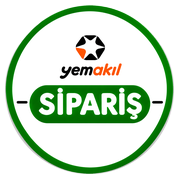
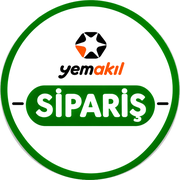
V150: Sipariş logosu kenarları — daire dışı saydam, başlıkta yuvarlak; köşelerdeki beyaz kalmadı
Claude-Session: https://claude.ai/code/session_011RPLY5VVGrZzGRjTnmy5dh

diff --git a/index.html b/index.html
@@ -103,7 +103,7 @@ h1{position:sticky;top:0;z-index:15;margin:-16px -14px 12px;padding:calc(14px + 
 main>.s:first-of-type{display:none}
 #sheet:not([hidden])~#tabs{display:none}
 </style></head><body><main>
-<h1 aria-label="YemAkıl Rasyon" style="display:flex;align-items:center;gap:10px;background:#fff;color:#111;border-bottom:1px solid #e3e3e3;padding-top:calc(8px + env(safe-area-inset-top,0px));padding-bottom:8px"><img src="logo-rasyon-120.png" width="42" height="42" alt=""><img src="logo-rasyon-yazi.png" height="44" alt="yemakıl Rasyon" style="height:44px;width:auto"><span style="margin-left:auto;color:#555;font-size:11px;font-weight:400;opacity:.75">v149</span></h1>
+<h1 aria-label="YemAkıl Rasyon" style="display:flex;align-items:center;gap:10px;background:#fff;color:#111;border-bottom:1px solid #e3e3e3;padding-top:calc(8px + env(safe-area-inset-top,0px));padding-bottom:8px"><img src="logo-rasyon-120.png" width="42" height="42" alt=""><img src="logo-rasyon-yazi.png" height="44" alt="yemakıl Rasyon" style="height:44px;width:auto"><span style="margin-left:auto;color:#555;font-size:11px;font-weight:400;opacity:.75">v150</span></h1>
 <p class="s">Hedefleri karşılayan en düşük maliyetli yem karışımını hesaplar. Besin değerleri kuru madde (KM) üzerinden girilir.</p>
 
 <div class="seg" id="seg"></div>

diff --git a/sw.js b/sw.js
@@ -1,4 +1,4 @@
-const C="yemakil-v104";
+const C="yemakil-v105";
 self.addEventListener("install",e=>{self.skipWaiting();e.waitUntil(caches.open(C).then(c=>c.addAll(["./","./index.html","./manifest.json","./icon-192.png","./icon-512.png","./icon-512-maskable.png","./logo-rasyon-120.png","./logo-rasyon-yazi.png","./apple-touch-icon.png","./veri.js","./saglik.js","./siparis.js","./siparis.html","./fiyat.html","./fiyat.js","./manifest-fiyat.json","./manifest-siparis.json","./icon-fiyat-192.png","./icon-fiyat-512.png","./icon-siparis-192.png","./icon-siparis-512.png","./icon-siparis-maskable-512.png","./apple-touch-icon-fiyat.png","./apple-touch-icon-siparis.png","./icon-fiyat-maskable-512.png"].map(u=>new Request(u,{cache:"reload"}))).catch(()=>{})))});
 self.addEventListener("activate",e=>{e.waitUntil(caches.keys().then(ks=>Promise.all(ks.filter(k=>k!==C&&k!=="yk-paylas").map(k=>caches.delete(k)))).then(()=>self.clients.claim()))});
 /* Ağ öncelikli; kendi dosyalarımız tarayıcının HTTP önbelleğini atlayıp sunucuya sorularak alınır (yeni sürüm hemen gelsin, V137); sayfa açılışında ağ 3 sn'de yanıt vermezse önbellek (zayıf kırsal bağlantı). Yalnız kendi dosyalarımız ve yazı tipleri önbelleğe alınır; hatalı yanıt önbelleğe yazılmaz. */

diff --git a/siparis.html b/siparis.html
@@ -105,7 +105,7 @@ main>.s:first-of-type{display:none}
 </style><style>#spPanel{position:static!important;width:auto!important;max-width:none!important;box-shadow:none!important;padding:0 0 24px!important;background:transparent!important;overflow:visible!important}#spClose{display:none!important}</style>
 </head>
 <body><main>
-<h1 style="display:flex;align-items:center;gap:10px"><img src="icon-siparis-192.png" width="30" height="30" alt="" style="vertical-align:-8px;margin-right:9px;border-radius:8px">YemAkıl Sipariş<span style="margin-left:auto;font-size:11px;font-weight:400;opacity:.75">v149</span></h1>
+<h1 style="display:flex;align-items:center;gap:10px"><img src="icon-siparis-192.png" width="36" height="36" alt="" style="vertical-align:-10px;margin-right:8px;border-radius:50%">YemAkıl Sipariş<span style="margin-left:auto;font-size:11px;font-weight:400;opacity:.75">v150</span></h1>
 
 </main>
 <script>

diff --git a/fiyat.html b/fiyat.html
@@ -105,7 +105,7 @@ main>.s:first-of-type{display:none}
 </style><style></style>
 </head>
 <body><main>
-<h1 style="display:flex;align-items:center;gap:10px"><img src="icon-fiyat-192.png" width="30" height="30" alt="" style="vertical-align:-8px;margin-right:9px;border-radius:8px">YemAkıl Fiyatlar<span style="margin-left:auto;font-size:11px;font-weight:400;opacity:.75">v149</span></h1>
+<h1 style="display:flex;align-items:center;gap:10px"><img src="icon-fiyat-192.png" width="30" height="30" alt="" style="vertical-align:-8px;margin-right:9px;border-radius:8px">YemAkıl Fiyatlar<span style="margin-left:auto;font-size:11px;font-weight:400;opacity:.75">v150</span></h1>
 <div id="fpBody"></div>
 </main>
 <script>
